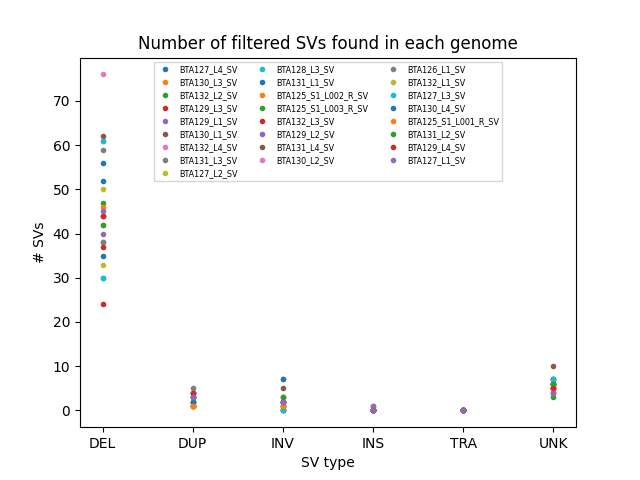
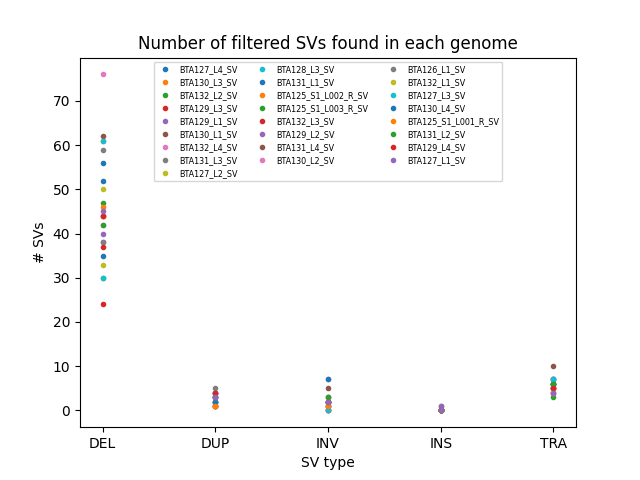
Changed header to TRA instead of unknown. Also changed output of counting func

diff --git a/SVs_identification/scripts/python/functions.py b/SVs_identification/scripts/python/functions.py
@@ -84,7 +84,7 @@ def summarize_stats(df):
 
 
 def plot_stats(sum_stats, sample_name):
-    x_axis = ['DEL', 'DUP', 'INV', 'INS', 'TRA', 'UNK']
+    x_axis = ['DEL', 'DUP', 'INV', 'INS', 'TRA']
     plt.plot(x_axis, sum_stats, '.', label=sample_name)
 
 
@@ -93,7 +93,6 @@ def count_sv_type(alt_column):
     count_dup = 0
     count_ins = 0
     count_inv = 0
-    count_unk = 0
     count_tra = 0
     for j in alt_column:
         if j == '<DEL>':
@@ -104,12 +103,10 @@ def count_sv_type(alt_column):
             count_ins = count_ins + 1
         elif j == '<INV>':
             count_inv = count_inv + 1
-        elif j == '<TRA>':
-            count_tra = count_tra + 1
         else:
-            count_unk = count_unk + 1
+            count_tra = count_tra + 1
 
-    return [count_del, count_dup, count_inv, count_ins, count_tra, count_unk]
+    return [count_del, count_dup, count_inv, count_ins, count_tra]
 
 
 # def find_overlap(vcf_list, vcf_files):
@@ -157,7 +154,6 @@ def count_sv_type(alt_column):
 def count_svs(vcf_list, vcf_files):
     counts = {}
     genomes_pos = {}
-    all_info = {}
     for i in range(len(vcf_list)):
         genome = get_genome_name(vcf_files[i])
         for row in range(len(vcf_list[i])):
@@ -167,10 +163,8 @@ def count_svs(vcf_list, vcf_files):
             if chrom_pos in counts.keys():
                 counts[chrom_pos] += 1
                 genomes_pos[chrom_pos] += ';' + genome
-                all_info[chrom_pos] += ';' + vcf_list[i].iloc[row].astype(str)
             else:
                 counts[chrom_pos] = 1
                 genomes_pos[chrom_pos] = genome
-                all_info[chrom_pos] = vcf_list[i].iloc[row].astype(str)
-    return counts, genomes_pos, all_info
+    return counts, genomes_pos
 
